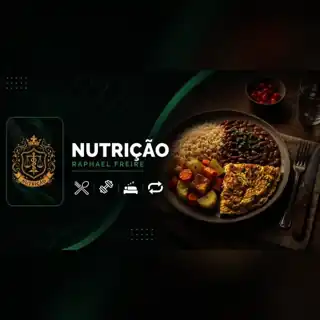
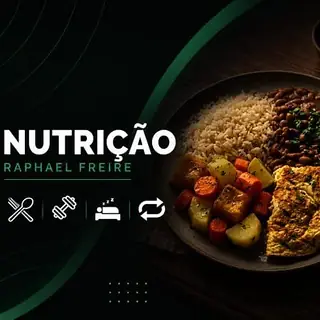
Melhora a qualidade da imagem do cartão Nutrição

diff --git a/service-worker.js b/service-worker.js
@@ -1,4 +1,4 @@
-const CACHE_NAME = "meu-app-estudos-shell-v5";
+const CACHE_NAME = "meu-app-estudos-shell-v6";
 const BASE = "/meu-app-estudos/";
 const SHELL = [BASE, BASE + "index.html", BASE + "nutricao.html", BASE + "manifest.webmanifest", BASE + "icons/icon.svg", BASE + "assets/nutricao-card.webp"];
 self.addEventListener("install", (event) => {
